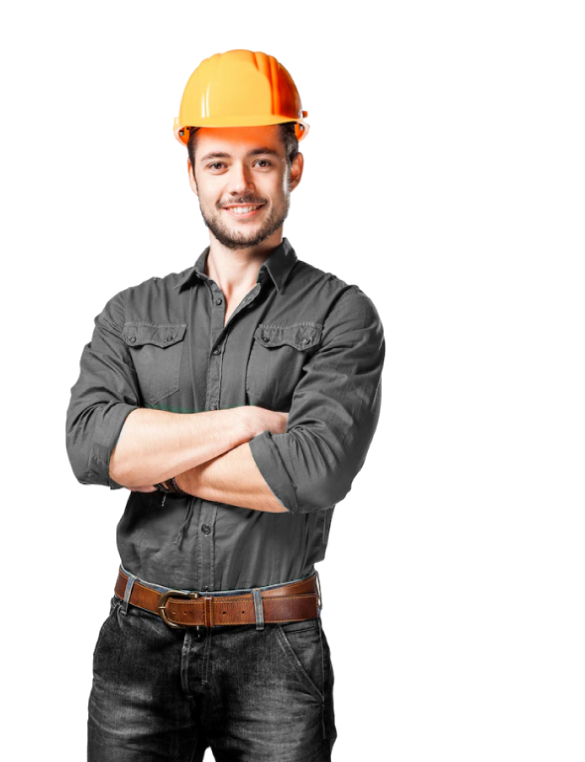
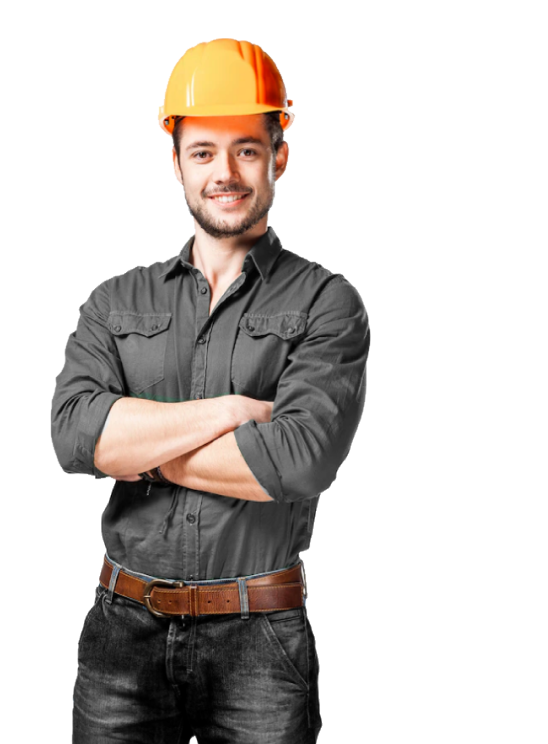
Modificaçoes
Alterando image na men e colocando e espaçamentos

Changed region(s): [[0.0931, 0.0309, 0.6825, 1.0]]

diff --git a/src/components/main/StyledMain.jsx b/src/components/main/StyledMain.jsx
@@ -1,14 +1,7 @@
 import styled from 'styled-components'
 import fotoSobreNos from '../../img/image.png'
-
-const StyleFoto = styled.img`
-  background-image: url(${fotoSobreNos});
-  height: 72vh;
-  width: 100%;
-  position: relative;
-  left: 80vh;
-  bottom: 50vh;
-`
+import StyleTraco from '../espacamento/StyledTraco'
+import StyleTraco2 from '../espacamento/StyledTraco2'
 
 const StyleMain = styled.main`
   position: relative;
@@ -16,6 +9,16 @@ const StyleMain = styled.main`
   flex-direction: column;
   align-items: center;
 `
+
+const StyleFoto = styled.section`
+  background-image: url(${fotoSobreNos});
+  background-repeat: no-repeat;
+  position: relative;
+  height: 100vh;
+  left: 95vh;
+  bottom: 50vh;
+`
+
 const StyleTitle = styled.h1`
   position: relative;
   top: 25vh;
@@ -23,6 +26,7 @@ const StyleTitle = styled.h1`
   right: 48vh;
   padding-bottom: 30px;
 `
+
 const StyleParagrafo = styled.p`
   font-size: larger;
   position: relative;
@@ -32,15 +36,16 @@ const StyleParagrafo = styled.p`
 
 export default function StyledMain() {
     return (
-        <StyleMain>
-        <StyleTitle>Sobre nós</StyleTitle>
-          <StyleParagrafo>Bem-vindo à M&D Gesso e Decorações, sua parceira dedicada
-            <br />a transformar espaços com elegância e sofisticação.
-            <br />Com uma trajetória sólida no universo do gesso, nos destacamos
-            <br />por oferecer serviços especializados que elevam
-            <br />o padrão estético de ambientes residenciais e comerciais.
-            <StyleFoto/>
-          </StyleParagrafo>
-        </StyleMain>
+      <StyleMain>
+          <StyleTraco/>
+            <StyleTitle>Sobre nós</StyleTitle>
+              <StyleParagrafo>Bem-vindo à M&D Gesso e Decorações, sua parceira dedicada a transformar
+                <br /> espaços com elegância e sofisticação. Com uma trajetória sólida no universo do
+                <br /> gesso, nos destacamos por oferecer serviços especializados que elevam o padrão
+                <br /> estético de ambientes residenciais e comerciais.
+              <StyleFoto/>
+            </StyleParagrafo>
+          <StyleTraco2/>
+      </StyleMain>
     )
 }

diff --git a/src/components/header/StyledNavbar.jsx b/src/components/header/StyledNavbar.jsx
@@ -1,34 +1,31 @@
 import styled from 'styled-components'
 import logo from '../../img/FotoDeFundo.png'
 
+
+const StyleHeader = styled.header`
+    margin: auto;
+    height: 98px;
+    width: 208vh;
+    position: absolute;
+    background-color: #ffffffbe;
+
+`
+
 const StyleBanner = styled.section`
     background-image: url(${logo});
-    height: 72vh;
-    width: 100%;
-    background-position: center;
+    height: 70vh;
+    background-position: left;
     background-repeat: no-repeat;
     background-size: cover;
 
 `
 
-const StyleHeader = styled.header`
-    max-width: 1280px;
-    margin: auto;
-
-`
-
-const StyleFlex = styled.div`
-    display: flex;
-    align-items: center;
-    justify-content: space-between;
-`
-
 const StyleNav = styled.nav`
-  height: 80px;
-  width: 80%;
-  position: absolute;
-  top: 0; 
-
+  a.active,
+  a:hover {
+  background: #F7A607;
+  transition: .5s;
+}
 
     ul {
       float: right;
@@ -55,7 +52,6 @@ const StyleNav = styled.nav`
     return (
         <StyleBanner>
           <StyleHeader>
-            <StyleFlex>
               <StyleNav>
                 <ul>
                   <li><a href="">home</a></li>
@@ -64,7 +60,6 @@ const StyleNav = styled.nav`
                   <li><a href="">Contato</a></li>
                 </ul>
               </StyleNav>
-            </StyleFlex>
           </StyleHeader>
         </StyleBanner>  
     )

diff --git a/src/components/espacamento/StyledTraco2.jsx b/src/components/espacamento/StyledTraco2.jsx
@@ -1,0 +1,18 @@
+import styled from "styled-components";
+
+const StyleTraco2 = styled.div`
+  content: '';
+  position: absolute;
+  display: block;
+  top: 60%;
+  left: 15%;
+  height: 5px;
+  width: 40%;
+  background-color: #F7A607;
+`
+
+export default function StyledDiv(){
+    return (
+        <StyleTraco2></StyleTraco2>
+    )
+}

diff --git a/src/components/espacamento/StyledTraco.jsx b/src/components/espacamento/StyledTraco.jsx
@@ -1,0 +1,17 @@
+import styled from "styled-components";
+
+const StyleTraco = styled.div`
+  content: '';
+  position: relative;
+  top: 27vh;
+  right: 48vh;
+  height: 10px;
+  width: 10%;
+  background-color: #F7A607;
+`
+
+export default function StyledDiv(){
+    return (
+        <StyleTraco></StyleTraco>
+    )
+}

diff --git a/src/css/globalStyles.js b/src/css/globalStyles.js
@@ -8,6 +8,7 @@ export default createGlobalStyle`
     text-decoration: none;
     list-style: none;
     box-sizing: border-box;
+    border: none;
     }
 
 `
